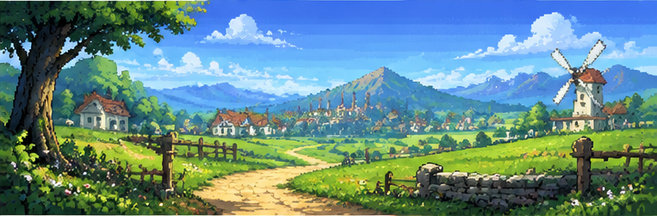
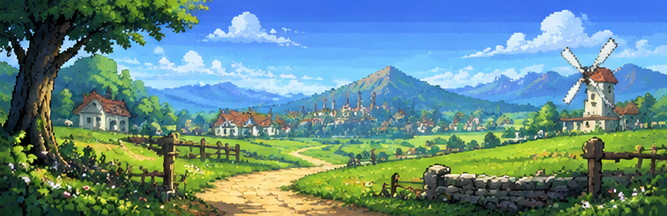
Cutscenes: text at the top, Perry placed on each scene's ground, boat for the Miracle Island pages (st88)
Claude-Session: https://claude.ai/code/session_01CvMu3aZWGEpLKmkyGEtNih

diff --git a/web/game/18_story.js b/web/game/18_story.js
@@ -48,15 +48,28 @@
   }
 
   const IDLE_SRC = 'assets/moves/idle.png';
-  const IDLE_CW  = 132, IDLE_CH = 93, IDLE_AX = 2, IDLE_AY = 92;
+  const IDLE_CW  = 132, IDLE_CH = 93, IDLE_AX = 40, IDLE_AY = 91;      // the anchor is the middle of her boots
   const MM_SRC = 'assets/enemies/mirrormax.png';
   const MM_CW = 250, MM_CH = 176, MM_AX = 160, MM_AY = 172;
 
+  // Where Perry stands in each scene, picked from the pictures: pan (0 left .. 1 right) says which part of the wide picture shows,
+  // x and gy are where her feet go (gy is the ground line in that picture), s her size there (nearer ground, bigger).
+  const SC = {
+    calm:     { pan: 0,    x: 205, gy: 198, s: 1.05 },     // the path at the foot of the meadow
+    fire:     { pan: 0.8,  x: 78,  gy: 202, s: 1.0, twinX: 338, twinGy: 204 },   // the dark lawn in front of the burning house
+    crowd:    { pan: 0.5,  gy: 198, s: 0.95 },
+    sea:      { pan: 0.35, boatX: 268, boatY: 200 },        // the water below the sun
+    double:   { pan: 0.5,  x: 96,  gy: 202, s: 1.15, twinX: 306, twinGy: 206 },  // the flagstone yard
+    altar:    { pan: 0.5,  x: 236, gy: 180, s: 0.8 },       // the foot of the temple stairs
+    rewind:   { pan: 0.35 },
+    meditate: { pan: 0,    x: 104, gy: 178, s: 0.95 },      // the grassy cliff
+    sunrise:  { pan: 0,    x: 104, gy: 178, s: 0.95 },
+  };
   function drawStoryBg(name) {
     const im = img['story:' + name] && img['story:' + name].im;
     g.imageSmoothingEnabled = false;
-    if (im) {                                                       // the picture is 216 px tall and wider than the view: drift slowly across it
-      const range = Math.max(0, im.width - V.w), u = 0.5 + 0.5 * Math.sin(clock * 0.00012 + name.length);
+    if (im) {                                                       // the picture is 216 px tall and wider than the view: show the part the scene wants
+      const range = Math.max(0, im.width - V.w), u = (SC[name] || {}).pan || 0;
       g.drawImage(im, -Math.round(range * u), 0, im.width, V.h);
     }
     else { g.fillStyle = '#100818'; g.fillRect(0, 0, V.w, V.h); }
@@ -103,40 +116,45 @@
   };
 
   function drawStory() {
-    const sc = story.pages[story.i][0], W = V.w, H = V.h, T = clock, gy = 168;
+    const sc = story.pages[story.i][0], W = V.w, H = V.h, T = clock, c = SC[sc] || SC.sunrise;
     g.imageSmoothingEnabled = false;
     drawStoryBg(sc);
 
     if (sc === 'calm') {
-      drawMax(88, gy, { s: 1.15 });
+      drawMax(c.x, c.gy, { s: c.s });
     }
     else if (sc === 'fire') {
       g.fillStyle = 'rgba(255,80,20,' + (0.08 + 0.06 * Math.sin(T * 0.01)) + ')';
       g.fillRect(0, 0, W, H);
-      drawMax(72, gy, { s: 1.1 });
-      drawTwin(300, gy, { s: 0.7 });
+      drawMax(c.x, c.gy, { s: c.s });
+      drawTwin(c.twinX, c.twinGy, { s: 0.7 });
     }
     else if (sc === 'crowd') {
-      drawMax(70 + ((T * 0.05) % 220), gy, { s: 1.05 });
+      drawMax(60 + ((T * 0.05) % 260), c.gy, { s: c.s });
     }
-    else if (sc === 'sea') {
-      const bob = Math.sin(T * 0.003) * 3;
-      drawMax(70, 150 + bob, { s: 0.95 });
+    else if (sc === 'sea') {                                        // Perry rows toward the island in her boat, rocking on the swell
+      const boat = img['assets/story/view/boat.png'] && img['assets/story/view/boat.png'].im;
+      const bob = Math.sin(T * 0.003) * 2, tilt = Math.sin(T * 0.0021) * 0.025;
+      if (boat) {
+        g.save(); g.translate(Math.round(c.boatX), Math.round(c.boatY + bob)); g.rotate(tilt);
+        g.drawImage(boat, -Math.round(boat.width / 2), -boat.height + 4);
+        g.restore();
+      }
     }
     else if (sc === 'double') {
-      drawMax(90, gy, { s: 1.2 });
+      drawMax(c.x, c.gy, { s: c.s });
       const a = 0.5 + 0.4 * Math.sin(T * 0.012);
-      drawTwin(310, gy + 6, { s: 0.78, sit: true, alpha: a });
+      drawTwin(c.twinX, c.twinGy, { s: 0.78, sit: true, alpha: a });
       for (let i = 0; i < 14; i++) {
         g.fillStyle = '#ff5060';
-        g.fillRect(290 + (i * 7) % 40, gy - 20 - ((T * 0.03 + i * 17) % 70), 2, 2);
+        g.fillRect(c.twinX - 20 + (i * 7) % 40, c.twinGy - 20 - ((T * 0.03 + i * 17) % 70), 2, 2);
       }
     }
     else if (sc === 'altar') {
       const gl = 0.15 + 0.12 * Math.sin(T * 0.004);
       g.fillStyle = `rgba(255,230,140,${gl})`;
-      g.fillRect(160, 90, 64, 50);
-      drawMax(80, gy, { s: 1.15 });
+      g.fillRect(c.x - 34, c.gy - 72, 68, 52);
+      drawMax(c.x, c.gy, { s: c.s });
     }
     else if (sc === 'rewind') {
       g.globalAlpha = 0.15 + 0.1 * Math.sin(T * 0.008);
@@ -145,15 +163,15 @@
       g.globalAlpha = 1;
     }
     else if (sc === 'meditate') {
-      drawMax(192, gy, { s: 1.25, sit: true });
+      drawMax(c.x, c.gy, { s: c.s, sit: true });
       for (let i = 0; i < 14; i++) {
         g.fillStyle = i % 3 ? '#e8fff4' : '#a8e8ff';
-        g.fillRect(150 + (i * 13) % 90, gy - ((T * 0.025 + i * 23) % 150), 2, 2);
+        g.fillRect(c.x - 40 + (i * 13) % 90, c.gy - ((T * 0.025 + i * 23) % 120), 2, 2);
       }
     }
     else {
-      drawMax(90, gy, { s: 1.15 });
-      figure(150, gy + 2, '#b89a7a');
-      figure(172, gy + 2, '#7a6a9a', { s: 0.8 });
+      drawMax(c.x, c.gy, { s: c.s });
+      figure(c.x + 64, c.gy + 2, '#b89a7a');
+      figure(c.x + 86, c.gy + 2, '#7a6a9a', { s: 0.8 });
     }
   }

diff --git a/web/index.html b/web/index.html
@@ -107,7 +107,7 @@
   #start-menu.title p { margin: 0 0 8px; font-size: 12px; }
   #start-menu.title .actions { gap: 6px; }
   #start-menu.title button { padding: 7px 14px; }
-  #start-menu.story { place-items: end center; padding-bottom: 6px; }
+  #start-menu.story { place-items: start center; padding-top: 6px; }       /* the text sits at the top so the scene's ground stays clear for Perry */
   #start-menu.story .veil { display: none; }
   #start-menu.story .panel { width: min(94%, 760px); padding: 10px 16px; text-align: left; background: rgba(14,12,20,.88); }
   #start-menu.story h2 { font-size: 13px; margin: 0 0 4px; color: var(--lit); }
@@ -173,43 +173,43 @@
     <pre id="monitor"></pre>
   </section>
 </main>
-<script>window.BIBOO_VER = 'st87';   /* cache buster: change it whenever the game or its assets change */</script>
-<script src="assets/data.js?v=st87"></script>
-<script src="assets/moves_extra.js?v=st87"></script>
-<script src="assets/creatures.js?v=st87"></script>
-<script src="assets/arenas.js?v=st87"></script>
-<script src="assets/bgs.js?v=st87"></script>
-<script src="assets/training.js?v=st87"></script>
-<script src="assets/items.js?v=st87"></script>
-<script src="assets/story.js?v=st87"></script>
-<script src="assets/music.js?v=st87"></script>
-<script src="music.js?v=st87"></script>
-<script src="input.js?v=st87"></script>
-<script src="progress.js?v=st87"></script>
-<script src="ui.js?v=st87"></script>
-<script src="levels.js?v=st87"></script>
-<script src="game/00_core.js?v=st87"></script>
-<script src="game/01_assets.js?v=st87"></script>
-<script src="game/02_input.js?v=st87"></script>
-<script src="game/03_state.js?v=st87"></script>
-<script src="game/04_chain.js?v=st87"></script>
-<script src="game/05_health.js?v=st87"></script>
-<script src="game/06_training.js?v=st87"></script>
-<script src="game/07_feedback.js?v=st87"></script>
-<script src="game/08_beams.js?v=st87"></script>
-<script src="game/09_maps.js?v=st87"></script>
-<script src="game/10_hazards.js?v=st87"></script>
-<script src="game/11_enemies.js?v=st87"></script>
-<script src="game/12_hits.js?v=st87"></script>
-<script src="game/13_enemy_attacks.js?v=st87"></script>
-<script src="game/14_draw_player.js?v=st87"></script>
-<script src="game/15_draw_scenery.js?v=st87"></script>
-<script src="game/16_hud.js?v=st87"></script>
-<script src="game/17_menus.js?v=st87"></script>
-<script src="game/18_story.js?v=st87"></script>
-<script src="game/19_overworld.js?v=st87"></script>
-<script src="game/20_title.js?v=st87"></script>
-<script src="game/21_cheats_loop.js?v=st87"></script>
-<script src="game/22_test_hooks.js?v=st87"></script>
+<script>window.BIBOO_VER = 'st88';   /* cache buster: change it whenever the game or its assets change */</script>
+<script src="assets/data.js?v=st88"></script>
+<script src="assets/moves_extra.js?v=st88"></script>
+<script src="assets/creatures.js?v=st88"></script>
+<script src="assets/arenas.js?v=st88"></script>
+<script src="assets/bgs.js?v=st88"></script>
+<script src="assets/training.js?v=st88"></script>
+<script src="assets/items.js?v=st88"></script>
+<script src="assets/story.js?v=st88"></script>
+<script src="assets/music.js?v=st88"></script>
+<script src="music.js?v=st88"></script>
+<script src="input.js?v=st88"></script>
+<script src="progress.js?v=st88"></script>
+<script src="ui.js?v=st88"></script>
+<script src="levels.js?v=st88"></script>
+<script src="game/00_core.js?v=st88"></script>
+<script src="game/01_assets.js?v=st88"></script>
+<script src="game/02_input.js?v=st88"></script>
+<script src="game/03_state.js?v=st88"></script>
+<script src="game/04_chain.js?v=st88"></script>
+<script src="game/05_health.js?v=st88"></script>
+<script src="game/06_training.js?v=st88"></script>
+<script src="game/07_feedback.js?v=st88"></script>
+<script src="game/08_beams.js?v=st88"></script>
+<script src="game/09_maps.js?v=st88"></script>
+<script src="game/10_hazards.js?v=st88"></script>
+<script src="game/11_enemies.js?v=st88"></script>
+<script src="game/12_hits.js?v=st88"></script>
+<script src="game/13_enemy_attacks.js?v=st88"></script>
+<script src="game/14_draw_player.js?v=st88"></script>
+<script src="game/15_draw_scenery.js?v=st88"></script>
+<script src="game/16_hud.js?v=st88"></script>
+<script src="game/17_menus.js?v=st88"></script>
+<script src="game/18_story.js?v=st88"></script>
+<script src="game/19_overworld.js?v=st88"></script>
+<script src="game/20_title.js?v=st88"></script>
+<script src="game/21_cheats_loop.js?v=st88"></script>
+<script src="game/22_test_hooks.js?v=st88"></script>
 </body>
 </html>

diff --git a/web/game/01_assets.js b/web/game/01_assets.js
@@ -36,6 +36,7 @@
   if (D.training) srcs.push(D.training.bunny.sheet);
   if (D.items) srcs.push(D.items.leaf, D.items.gemSheet, D.items.merchant.src);
   if (window.STORY_BGS) for (const k of Object.keys(window.STORY_BGS)) srcs.push('story:' + k);
+  if (window.STORY_BGS) srcs.push('assets/story/view/boat.png');     // Perry rowing to Miracle Island
   const STILLS = window.ARENA_STILLS || {};                          // boss arenas drawn from one picture
   for (const k of Object.keys(STILLS)) srcs.push('story:arena_' + k);
   if (window.STORY_BGS) for (const k of Object.keys(STILLS)) window.STORY_BGS['arena_' + k] = STILLS[k];

diff --git a/Current_Work.md b/Current_Work.md
@@ -442,3 +442,6 @@ Plan and status (each step is pushed on its own; resume from the first unchecked
 
 ## st87 (backgrounds, untested in a browser)
 - web/assets/story.js maps the eight supplied scenes (assets/story/, view-sized copies in assets/story/view/): cutscene pages (calm/crowd village meadow, fire burning house, sea/rewind/meditate/sunrise sunset island, double moonlit courtyard, altar snow temple) and boss arena stills (fungal forest waterfall, crypt cave shrine, bone mine bridge, keep moonlit courtyard). Ogre Chief (tide) and Boar Lord (ember) keep their old arenas. Floor height in the pictures is not matched to the game floor; adjust if it looks off.
+
+## st88 (cutscene layout, not run in a browser)
+- Story text panel now at the top (#start-menu.story). 18_story.js has an SC table: per scene the picture pan, Perry's feet (x, gy) and size, picked from each picture's ground. Drift removed. Idle-sprite anchor fixed to the middle of her boots. Miracle Island pages use the supplied boat picture (assets/story/boat.png, view copy 150 px wide) rocking on the water instead of her idle sprite. Pictures re-cut 3 px inside the borders (removed a leftover white line).
